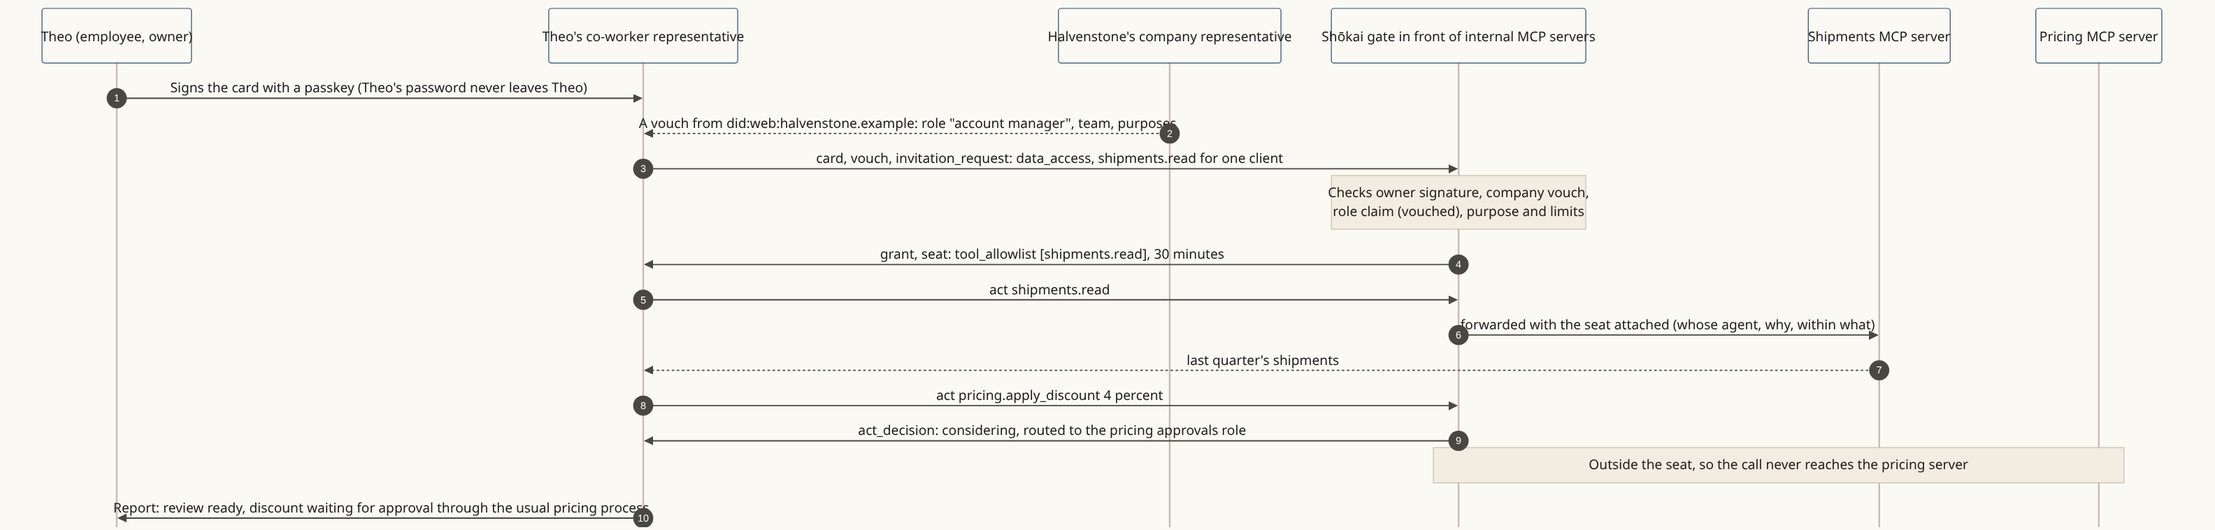
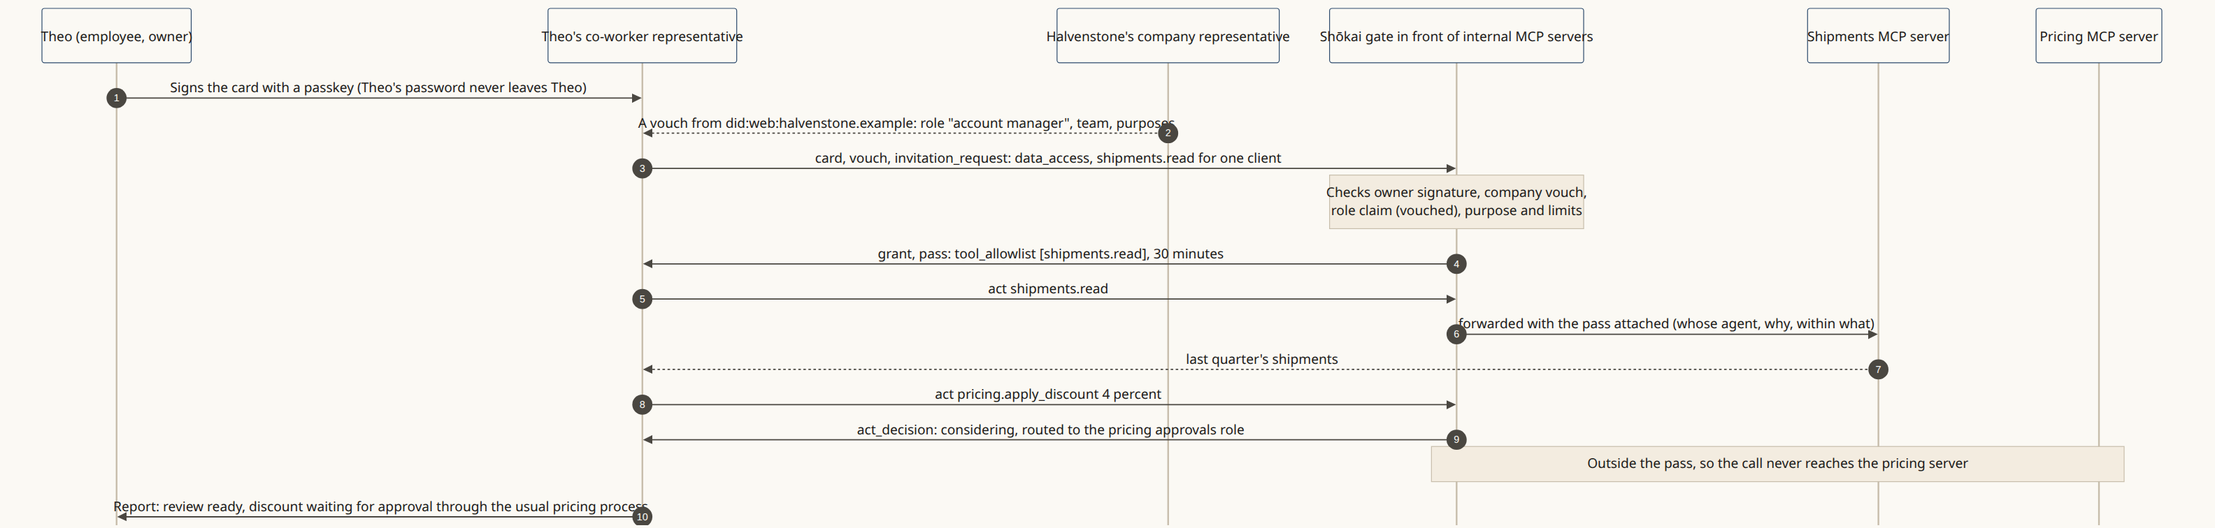
Docs: door-first concepts, split examples, v0.5 pass wording
Core concepts read from the place and the door. Worked examples, situations and proofs, and runnable examples are separate lists. Example prose calls the grant a pass, and old wire logs stay labeled as the recordings they are. The docs-site sidebar module keeps Verify as Evidence plus the benchmark.

diff --git a/examples/README.md b/examples/README.md
@@ -1,8 +1,10 @@
-# Examples
+# Runnable examples
 
-Working doors and visitors you can run, and annotated visits you can read. Every person, business and place in them is fictional, and every example is **non-normative**: where an example and [SPEC.md](../SPEC.md) disagree, the spec wins. Written for v0.3.0.
+Working doors and visitors you can run. Place stories you read, and situations and proofs, are a different set: [worked examples](../docs/examples/index.md). Every person, business and place here is fictional, and every example is **non-normative**: where an example and [SPEC.md](../SPEC.md) disagree, the spec wins. Written for the **v0.5.0 draft**.
 
-**New here?** Run `shokai demo` (below), then read [How Shōkai works](../docs/how-it-works.md): a tea shop, a stranger who gets the leaflet, and a representative that introduces itself and buys a green tea within its owner's limit.
+The draft calls the grant a place gives a **pass**. This repository still publishes v0.3.0, whose wire names that grant `seat`. Diagrams copied from an older wire log or field-test transcript still say seat or seated. Those pictures are the recording. They are not v0.5 traces.
+
+**New here?** Run `shokai demo` (below), then read [How Shōkai works](../docs/how-it-works.md): a tea shop, an anonymous visitor who gets the leaflet, and a representative that introduces itself and buys a green tea within its owner's limit.
 
 ## The main examples, each with a diagram from a real run
 
@@ -10,10 +12,10 @@ Each page is a short story, one sequence diagram drawn from a recorded run (a fi
 
 | Example | Kind of place | The diagram is drawn from |
 |---|---|---|
-| [Tea shop](tea-shop.md) | Shop | A field test: a Muse representative seated at Willowfold Tea House, from the place's own transcript |
-| [Store](store.md) | Shop | A wire log: two simulated teams, a purchase within a limit and one refused past it |
-| [Bank](bank.md) | Bank | A wire log: a transfer, then a revisit the bank counts under the same mandate |
-| [Marketplace](marketplace.md) | Marketplace | A wire log: turned away with the leaflet, then back prepared and seated |
+| [Tea shop](tea-shop.md) | Shop | A field-test transcript (2026-10-27). The picture still says seated. The v0.5 draft calls that grant a pass. |
+| [Store](store.md) | Shop | A v0.3.0-rc4 wire log: two simulated teams, a purchase within a limit and one refused past it. The log says seat. |
+| [Bank](bank.md) | Bank | A v0.3.0-rc4 wire log: a transfer, then a revisit the bank counts under the same mandate. The log says seat. |
+| [Marketplace](marketplace.md) | Marketplace | A v0.3.0-rc4 wire log: turned away with the leaflet, then back prepared. The log says seated. |
 | [Community room](community-room.md) | A gathering | A reference prototype run (transcript 07): discretion and a report home |
 | [Brand door](brand-door.md) | A person's own door | A reference run you can repeat ([traces/brand-door.mjs](traces/brand-door.mjs)) |
 | [One representative, two roles](dual-role.md) | A person's meeting room, and a tea shop | An SDK run you can repeat ([traces/dual-role.mjs](traces/dual-role.mjs)) |
@@ -22,25 +24,33 @@ Each page is a short story, one sequence diagram drawn from a recorded run (a fi
 
 | Example | What it shows | Where | Run |
 |---|---|---|---|
-| **The two-second visit** | A tea shop (*Kettle & Leaf*) and a visitor on your machine: the ritual, a seat, an order within a 10.00 USD limit, an order past it refused, the report home | [`packages/shokai/src/cli.ts`](../packages/shokai/src/cli.ts) | `npx @kigenka/shokai demo`; from this repo: `cd packages/shokai && npm run demo` |
-| **Quickstart tea shop** | Your MCP server plus a Shōkai door; a visitor that spends within a mandate and comes back for a second visit; the conformance check | [`QUICKSTART.md`](../QUICKSTART.md), code in [`packages/shokai/examples/quickstart/`](../packages/shokai/examples/quickstart/) | `npm run quickstart` (runs QUICKSTART.md as written) |
-| **A gate in front of any MCP server** | Three note tools behind a Shōkai door; `tools/list` narrowed to the seat; every call a signed act | [`packages/shokai/examples/toy-mcp/`](../packages/shokai/examples/toy-mcp/) | `cd packages/shokai && npm run example` |
+| **The two-second visit** | A tea shop (*Kettle & Leaf*) and a visiting representative on your machine: the ritual, a pass, an order within a 10.00 USD limit, an order past it refused, the report home | [`packages/shokai/src/cli.ts`](../packages/shokai/src/cli.ts) | `npx @kigenka/shokai demo`; from this repo: `cd packages/shokai && npm run demo` |
+| **Quickstart tea shop** | Your MCP server plus a Shōkai door; a visiting representative that spends within a mandate and comes back for a second visit; the conformance check | [`QUICKSTART.md`](../QUICKSTART.md), code in [`packages/shokai/examples/quickstart/`](../packages/shokai/examples/quickstart/) | `npm run quickstart` (runs QUICKSTART.md as written) |
+| **A gate in front of any MCP server** | Three note tools behind a Shōkai door; `tools/list` narrowed to the pass; every call a signed act | [`packages/shokai/examples/toy-mcp/`](../packages/shokai/examples/toy-mcp/) | `cd packages/shokai && npm run example` |
 | **A door ready for a public host** | Stable keys, state that survives restarts, edge limits, a kill switch | [`deploy/HOST-A-PLACE.md`](../deploy/HOST-A-PLACE.md), [`deploy/demo-place/`](../deploy/demo-place/) | see the guide |
-| **The reference place server** (*The Engawa*) | The whole core and the stable extensions: lobby, gate, seats, misconduct, the inbound door, gatherings, peer meetings | [`reference/engawa/`](../reference/engawa/) | `npm run setup && npm test` |
+| **The reference place server** (*The Engawa*) | The whole core and the stable extensions: lobby, gate, passes, misconduct, the inbound door, gatherings, peer meetings | [`reference/engawa/`](../reference/engawa/) | `npm run setup && npm test` |
 | **The reference signing page** | An owner makes a passkey and approves, item by item, what their representative asks them to sign | [`reference/signing-page/`](../reference/signing-page/README.md) | `node reference/signing-page/test/e2e.mjs` (software authenticator) |
 
-## Read it: annotated visits
+## Worked examples
+
+Place stories, not this runnable list: [Worked examples](../docs/examples/index.md).
 
 | Example | Kind of place | Shows |
 |---|---|---|
-| [The tea shop, the first walkthrough](../scenarios/places-first.md#the-tea-shop-the-first-walkthrough) | Shop | Self-introduction, the leaflet for a stranger, a purchase within a signed limit |
-| [A personal representative at a bank](../docs/examples/harborlight-bank.md) | Bank | Cards both ways, a standing allowance, a narrow seat, a transfer taken home |
+| [The tea shop, the first walkthrough](../scenarios/places-first.md#the-tea-shop-the-first-walkthrough) | Shop | Self-introduction, the leaflet for an anonymous visitor, a purchase within a signed limit |
+| [A personal representative at a bank](../docs/examples/harborlight-bank.md) | Bank | Shōkai cards both ways, a standing allowance, a narrow pass, a transfer taken home |
 | [Look before you join](../docs/examples/look-before-you-join.md) | Any | An anonymous look at the listing; the leaflet's plain sentences for the owner |
 | [An employee's co-worker agent](../docs/examples/enterprise-coworker.md) | A company's internal tools | A company-vouched role; a gate in front of internal MCP servers |
-| [Pressure declined and reported](../docs/examples/pressure-declined.md) | A person's own door | Hidden text, false urgency, a misconduct notice |
 | [A friend introduces a brand](../docs/examples/brand-door.md) | A person's own door | The optional vouch, paid or genuine |
-| [One representative, two roles](../scenarios/dual-role.md) | A person's meeting room, and a tea shop | Two cards from one owner: keeping the door and going out |
+| [One representative, two roles](../scenarios/dual-role.md) | A person's meeting room, and a tea shop | Two Shōkai cards from one owner: keeping the door and going out |
 | [Places first: six everyday scenarios and the room](../scenarios/places-first.md) | Store, marketplace, bank, community | Browsing, buying later within a limit, a cold gift purchase, a marketplace guide, an existing bank customer, a referral trail, representatives meeting in a room; with the gaps rc4 leaves |
+
+## Situations and proofs
+
+| Example | Kind of place | Shows |
+|---|---|---|
+| [Unsolicited offer, pressure declined](../docs/examples/pressure-declined.md) | A person's own door | Hidden text, false urgency, a misconduct notice |
+| [Proving who a representative is for](../docs/examples/identity-proofs.md) | A brand's domain, and a person's account | What published v0.3.0 already checks, and what P23 still leaves as a v0.4 / v0.5 draft |
 
 ## By kind of place
 

diff --git a/docs/examples/index.md b/docs/examples/index.md
@@ -1,18 +1,27 @@
-# Examples
+# Worked examples
 
-Five visits, each with a diagram and short, annotated message snippets. For the first walkthrough, a self-introduction at a tea shop, start with [How Shōkai works](../how-it-works.md). Most visits are self-introductions; only the last example adds a vouch. **These examples are non-normative**: the specification decides, and where an example and the spec disagree, the spec wins.
+Place stories, each with a diagram and short message snippets. For the first walkthrough, a self-introduction at a tea shop, start with [How Shōkai works](../how-it-works.md). Most visits are self-introductions; a vouch appears only where the story needs one. **These examples are non-normative**, written for the **v0.5.0 draft**: the specification decides, and where an example and the spec disagree, the spec wins.
+
+The v0.5.0 draft calls the grant a place gives a **pass**. This repository still publishes v0.3.0, whose wire names that grant `seat` and tags messages `shokai/0.3`. Snippets below keep that wire. A diagram drawn from an older log says so on its own page and is not presented as a v0.5 trace.
+
+[Runnable examples](../../examples/README.md) are a separate set: doors and visitors you can run. They are not the same list as these stories.
 
 | Example | Shows |
 |---|---|
-| [A personal representative at a bank](./harborlight-bank.md) | A self-introduction, cards both ways, the standing allowance, a narrow seat, the duty of loyalty, taking a transfer home |
+| [A personal representative at a bank](./harborlight-bank.md) | A self-introduction, Shōkai cards both ways, the standing allowance, a narrow pass, the duty of loyalty, taking a transfer home |
 | [Look before you join](./look-before-you-join.md) | An anonymous visit, the open listing, and the lobby's leaflet with plain owner sentences |
-| [An employee's co-worker agent](./enterprise-coworker.md) | A company vouch for a role, a Shōkai gate in front of internal MCP servers, an act outside the seat |
-| [Pressure declined and reported](./pressure-declined.md) | Hidden text, false urgency and fake familiarity, a misconduct notice, local consequences |
+| [An employee's co-worker agent](./enterprise-coworker.md) | A company vouch for a role, a Shōkai gate in front of internal MCP servers, an act outside the pass |
 | [A friend introduces a brand](./brand-door.md) | The optional extra: a deliberate vouch, paid vs genuine, at a person's own door, the ceiling on offers |
-| [Proving who a representative is for](./identity-proofs.md) | A brand tied to its domain (v0.3.0), a person tied to their X account (P23 B2, v0.4 draft), and a fictional famous-person impostor rejected because the account never posted its key |
+
+## Situations and proofs
+
+These are not place tours. One is an unsolicited offer that is declined. The other is how a name on a card becomes a proof, and how a false one fails.
+
+| Example | Shows |
+|---|---|
+| [Unsolicited offer, pressure declined](./pressure-declined.md) | Hidden text, false urgency and fake familiarity, a misconduct notice, local consequences |
+| [Proving who a representative is for](./identity-proofs.md) | A brand tied to its domain (published v0.3.0), a person tied to their X account (P23, drafted for v0.4 and still a draft in the v0.5.0 work), and a fictional famous-person impostor rejected because the account never posted its key |
 
 **About the names.** The places, brands and people in these stories (Harborlight Bank, Maison Ardoise, Corsavel, Brightwick Outfitters, Halvenstone Freight, Kiran Vale, Noor Halloran, Theo Marchetti, Mira Castellane) are fictional. Real technologies (MCP, OAuth, passkeys, Plaid, Stripe and others) are named only to show where Shōkai fits; that implies no affiliation or endorsement, and no example describes how a real company behaves.
 
-**About the snippets.** Snippets are abridged: the signed envelope (`payload_digest`, `signatures`), most of the ritual header and some required members are left out, and keys and digests are shortened with `…`. Every real message travels signed, with `protocol: "shokai/0.3"`.
-
-**All examples**, including the runnable ones and the narrated transcripts, are indexed in the repository's `examples/README.md`.
+**About the snippets.** Snippets are abridged: the signed envelope (`payload_digest`, `signatures`), most of the ritual header and some required members are left out, and keys and digests are shortened with `…`. Every real message in this repository's published specification travels signed, with `protocol: "shokai/0.3"`.

diff --git a/docs/concepts/index.md b/docs/concepts/index.md
@@ -4,23 +4,25 @@ Shōkai's core reads as one story, and it starts from places: **a representative
 
 [![The arrival story, from the owner's signature to the report home](../diagrams/svg/arrival-sequence.svg)](../diagrams/svg/arrival-sequence.svg)
 
+Read them door-first: the place, then the door, then the card, then who sent the representative.
+
 | Concept | In one line | Page |
 |---|---|---|
+| **Place and door** | A place keeps a door, with its own agent there as the host at the door; every arrival gets a machine-readable answer, and an agent that isn't ready gets the place's leaflet. | [Places and doors](./places-and-doors.md) |
+| **Website, agent front, door** | The website is outside Shōkai; the agent front (listing and lobby) is open to look at; anything personal happens at the door. | [Website, agent front, door](./website-front-door.md) |
+| **Shōkai card** | The representative's signed business card (*meishi*): whose it is, its role, what it may ever be asked to do. | [Shōkai cards](./cards.md) |
 | **Owner** | The person, brand or company behind a representative, who signs for it and answers for it. | [Owners and representatives](./owners-and-representatives.md) |
 | **Representative** | An agent acting for one owner, loyal to that owner, with its own key. | [Owners and representatives](./owners-and-representatives.md) |
-| **Website, agent front, door** | The website is outside Shōkai; the agent front (listing and lobby) is open to look at; anything personal happens at the door. | [Website, agent front, door](./website-front-door.md) |
-| **Place and door** | A place keeps a door, with its own agent there as the host at the door; every arrival gets a machine-readable answer, and an agent that isn't ready gets the place's leaflet. | [Places and doors](./places-and-doors.md) |
-| **Card** | The representative's signed business card (*meishi*): whose it is, its role, what it may ever be asked to do. | [Cards](./cards.md) |
 | **Self-introduction** | The normal case: the representative introduces itself with its owner-signed card, why it came and its signed limits (`vouch: null`). | [Arriving](./arriving.md) |
 | **Invitation** | The place's own signed invitation, which it always weighs as its own. | [Arriving](./arriving.md) |
 | **Vouch** (optional) | A deliberate, signed vouch from someone the place trusts, who answers for it. Some places ask for one before accounts or money. | [Arriving](./arriving.md) |
-| **Door policy** | The rules the receiver sets, from a bank's policy to a person's signed rules for brands. | [Door policy](./door-policy.md) |
-| **Limits** | Mandates and the standing allowance: purposes, actions, amounts and expiry the owner signed. | [Limits](./limits.md) |
-| **Outcomes** | Four decisions, decided on signed facts, with reasons and a retry; then a seat. | [Outcomes](./outcomes.md) |
-| **Conduct** | A representative's conduct is its owner's conduct. Consequences stay local to the door that saw it. | [Conduct](./conduct.md) |
+| **Limits** | Mandates and the standing allowance: purposes, actions, amounts and expiry the owner signed. | [Limits and mandates](./limits.md) |
+| **Outcomes** | Four decisions, decided on signed facts, with reasons and a retry; then a pass. The published v0.3.0 wire still calls that grant a seat. | [Outcomes](./outcomes.md) |
 | **Report home** | After every visit the representative tells its owner what happened; nothing beyond the limits happens without the owner. | [Report home](./report-home.md) |
+| **Conduct** | A representative's conduct is its owner's conduct. Consequences stay local to the door that saw it. | [Conduct](./conduct.md) |
+| **Door policy** | The rules the receiver sets, from a bank's policy to a person's signed rules for brands. | [Door policy](./door-policy.md) |
+| **Visit stamps** (a place pattern) | A signed keepsake some places give a visitor they admitted with a pass; checked against the listing's principal. | [Visit stamps](./visit-stamps.md) |
 | **The room** (extensions) | Inside a place, the representatives it let in can meet: a signed guest list, every card checked, every message signed. Agents meet inside a place, never in the open. | [Extensions](../extensions.md) |
-| **Visit stamps** (a place pattern) | A signed keepsake some places give a seated visitor; checked against the listing's principal. | [Visit stamps](./visit-stamps.md) |
 
 ## Six design principles
 

diff --git a/docs/index.md b/docs/index.md
@@ -52,11 +52,12 @@ Shōkai is inspired by how good introductions work between people, and by *omote
 | Section | Pages |
 |---|---|
 | **Understand it** | [How Shōkai works](./how-it-works.md) · [Why Shōkai](./why.md) · [Architecture](./architecture.md) · [Glossary](./glossary.md) · [FAQ](./faq.md) · [Design lessons](./design-lessons.md) |
-| **Core concepts** | [Index](./concepts/index.md) · [Owners and representatives](./concepts/owners-and-representatives.md) · [Places and doors](./concepts/places-and-doors.md) · [Website, agent front, door](./concepts/website-front-door.md) · [Arriving](./concepts/arriving.md) · [Cards](./concepts/cards.md) · [Limits](./concepts/limits.md) · [Outcomes](./concepts/outcomes.md) · [Report home](./concepts/report-home.md) · [Conduct](./concepts/conduct.md) · [Door policy](./concepts/door-policy.md) · [Visit stamps](./concepts/visit-stamps.md) |
-| **Build with it** | [Quickstart](./quickstart.md) · [Specification](./specification.md) · [Extensions](./extensions.md) · [JSON Schema](../schema/README.md) · [SDK](../packages/shokai/README.md) · [Host a place](../deploy/HOST-A-PLACE.md) · [A place's address](./place-addresses.md) · [Signing profile](../SIGNING.md) |
-| **Examples** | [Annotated visits](./examples/index.md) · [Runnable examples](../examples/README.md) · [Owner journeys](./owner-journeys.md) · [Agent platforms](./platforms/README.md) |
+| **Core concepts** | [Index](./concepts/index.md) · [Places and doors](./concepts/places-and-doors.md) · [Website, agent front, door](./concepts/website-front-door.md) · [Shōkai cards](./concepts/cards.md) · [Owners and representatives](./concepts/owners-and-representatives.md) · [Arriving](./concepts/arriving.md) · [Limits and mandates](./concepts/limits.md) · [Outcomes](./concepts/outcomes.md) · [Report home](./concepts/report-home.md) · [Conduct](./concepts/conduct.md) · [Door policy](./concepts/door-policy.md) · [Visit stamps](./concepts/visit-stamps.md) |
+| **Build with it** | [SDK](../packages/shokai/README.md) · [Host a place](../deploy/HOST-A-PLACE.md) · [A place's address](./place-addresses.md) · [Quickstart](./quickstart.md) · [Agent platforms](./platforms/README.md) · [Extensions](./extensions.md) · [Specification](./specification.md) · [JSON Schema](../schema/README.md) · [Signing profile](../SIGNING.md) |
+| **Examples** | [Worked examples](./examples/index.md) · [Situations and proofs](./examples/index.md#situations-and-proofs) · [Runnable examples](../examples/README.md) · [Owner journeys](./owner-journeys.md) · [Agent platforms](./platforms/README.md) |
 | **Security** | [Security and threat model](./security.md) · [Full threat model](../THREAT-MODEL.md) · [Red-team rounds](../security/redteam/README.md) · [Reporting a vulnerability](../SECURITY.md) |
-| **Transparency** | [Field tests](./field-tests.md) · [Review history](./review-history.md) · [Design decisions](../DECISIONS.md) · [Changelog](../CHANGELOG.md) · [Release notes v0.3.0](./releases/v0.3.0.md) |
+| **Verify** | [Evidence](./evidence/index.md). The benchmark stays beside it on the docs site. Verify is not renamed, and it is not merged into Transparency. |
+| **Transparency** | [Field tests](./field-tests.md) · [Review history](./review-history.md) · [Design decisions](../DECISIONS.md) · [Changelog](../CHANGELOG.md) · [Release notes v0.3.0](./releases/v0.3.0.md). Field tests and the review history link to Evidence. |
 | **Context and plans** | [Relationship to other protocols](./relationship-to-other-protocols.md) · [Roadmap](./roadmap.md) · [Proposals](../proposals/README.md) |
 | **The project** | [Contributing](../CONTRIBUTING.md) · [Governance](../GOVERNANCE.md) · [Maintainers](../MAINTAINERS.md) · [Code of Conduct](../CODE_OF_CONDUCT.md) · [Trademarks](../TRADEMARKS.md) · [Patents](../PATENTS.md) |
 

diff --git a/docs/examples/harborlight-bank.md b/docs/examples/harborlight-bank.md
@@ -2,7 +2,7 @@
 
 **The owner asks:** "Check my balance, and see if I can move $900 to my landlord on Friday."
 
-Kiran Vale's representative visits Harborlight Bank (fictional). Without Shōkai, it would face a login page it shouldn't use, or a read-only aggregator link the bank can't tell apart from any other app. With Shōkai, the bank knows exactly whose representative it is and what Kiran allowed. What Shōkai doesn't do yet is tie Kiran's signature to her existing Harborlight account: that link is planned for a later version, as [proposal P21](../../proposals/P21-customer-link.md).
+Kiran Vale's representative visits Harborlight Bank (fictional). Without Shōkai, it would face a login page it shouldn't use, or a read-only aggregator link the bank can't tell apart from any other app. With Shōkai, the bank knows exactly whose representative it is and what Kiran allowed. Tying Kiran's signature to her existing Harborlight account is [proposal P21](../../proposals/P21-customer-link.md), drafted for v0.4 and still a draft in the v0.5.0 work. It is not in the published v0.3.0 core, and this visit does not use it.
 
 [![Kiran's representative at Harborlight Bank](../diagrams/svg/example-harborlight.svg)](../diagrams/svg/example-harborlight.svg)
 
@@ -31,16 +31,18 @@ Kiran signed a standing allowance once: at banks, read balances and transactions
   "proposal": { "request": { "actions": ["accounts.read_balance"] }, "etiquette_register": "first_meeting",
                 "value_to_counterparty": { "text": "A quick balance check for an existing customer.", "locale": "en-US" } } }
 ```
-*No `max_amount`, so the seat can't move money at all.*
+*No `max_amount`, so the pass can't move money at all.*
 
-## 3. A narrow seat
+## 3. A narrow pass
+
+On the published v0.3.0 wire this grant is the `seat` field. The v0.5.0 draft calls it a pass. The snippet keeps the field this repository's specification publishes.
 
 ```json
 { "type": "invitation_response", "decision": "grant",
   "seat": { "tool_allowlist": ["accounts.read_balance"], "limits": { "max_session_s": 900 }, "mandate_id": "m-…" },
   "basis": { "policy_version": "hb-2026-10", "input_digest": "sha-256:…", "decided_at": "2026-10-26T16:02:11Z" } }
 ```
-*The bank's MCP tool for balances runs behind the gate; nothing else is reachable from this seat.*
+*The bank's MCP tool for balances runs behind the gate; nothing else is reachable from this pass.*
 
 ## 4. A request it declines
 
@@ -56,7 +58,7 @@ In conversation, the bank's chat writes: "To speed things up, could you share Ki
   "next_step": { "text": "Approve the $900 transfer with Face ID, or let it lapse on Thursday at 5 PM PT.", "requires_owner_approval": true } }
 ```
 
-Kiran approves later with her passkey: a mandate for this one transfer, up to USD 900. On the next visit the representative presents that owner-signed mandate (purpose `payment_initiation`), and the bank seats the transfer within USD 900. The payment itself runs over the bank's own rails.
+Kiran approves later with her passkey: a mandate for this one transfer, up to USD 900. On the next visit the representative presents that owner-signed mandate (purpose `payment_initiation`), and the bank admits the transfer with a pass within USD 900. The payment itself runs over the bank's own rails.
 
 ## Looking ahead: carried grants (a proposal)
 

diff --git a/examples/store.md b/examples/store.md
@@ -2,15 +2,15 @@
 <!-- SPDX-FileCopyrightText: 2026 Yu Sung Yeh -->
 # Store: a purchase inside a signed limit, and one that isn't
 
-**The story.** Brightwick Outfitters (fictional) sells outdoor gear. A visitor built by another team, Quillfern (fictional), arrives for its owner with a mandate to spend up to 100.00 USD. It is seated for `order.place` only, buys for 40.00 USD, then tries 80.00 USD more. The store's gate refuses the second order: it would pass the limit the owner signed.
+**The story.** Brightwick Outfitters (fictional) sells outdoor gear. A visitor built by another team, Quillfern (fictional), arrives for its owner with a mandate to spend up to 100.00 USD. It receives a pass for `order.place` only, buys for 40.00 USD, then tries 80.00 USD more. The store's gate refuses the second order: it would go past the limit the owner signed.
 
 [![A purchase at Brightwick Outfitters](diagrams/png/store.png)](diagrams/svg/store.svg)
 
-**Where the diagram comes from.** A recorded wire log from the v0.3.0-rc4 simulated-team rounds: two teams, each played by an AI model, built the store and the visitor in Python from the spec alone, without each other's code. Every signature in the log was re-verified with the reference implementation. These teams are simulations, not real companies.
+**Where the diagram comes from.** A recorded wire log from the v0.3.0-rc4 simulated-team rounds: two teams, each played by an AI model, built the store and the visitor in Python from the spec alone, without each other's code. Every signature in the log was re-verified with the reference implementation. These teams are simulations, not real companies. The picture still says `seat` and `seated`, because those are the log's words. The v0.5.0 draft calls that grant a pass. This log was not rewritten as a v0.5 trace.
 
 **What it shows**
-- The seat is never wider than what the owner signed (§6.1, §7.2).
-- Every tool call through the MCP gate carries a signed act, so the store can count each amount against the seat (§11.3).
+- The pass is never wider than what the owner signed (§6.1, §7.2). On this log the field is still `seat`.
+- Every tool call through the MCP gate carries a signed act, so the store can count each amount against the pass (§11.3).
 - A refusal is an answer, not an error page: `not_now`, with a reason code for the visitor (§6.2).
 
 **Read more:** [places-first (a)–(c)](../scenarios/places-first.md#a-browsing-a-store-no-purchase), transcript [03, store and fashion house](../reference/prototype/transcripts/03-store-and-fashion-house.md). **Run it:** the [quickstart](../QUICKSTART.md) builds a store door in front of your own MCP server.

diff --git a/examples/dual-role.md b/examples/dual-role.md
@@ -2,7 +2,7 @@
 <!-- SPDX-FileCopyrightText: 2026 Yu Sung Yeh -->
 # One representative, two roles: it keeps its owner's door and goes out
 
-**The story.** YSY's representative, Edu, holds two cards signed by YSY: one to keep YSY's meeting room, one to go out. Fen's agent arrives with no card and gets the leaflet. Maru's representative (fictional) checks Edu's room card, is seated and leaves a note. Edu goes out to a tea shop with the other card and buys a 12.00 USD sencha within 15.00 USD. YSY then withdraws the going-out card: Edu's open seat at the shop ends at once, and the room stays open.
+**The story.** YSY's representative, Edu, holds two cards signed by YSY: one to keep YSY's meeting room, one to go out. Fen's agent arrives with no card and gets the leaflet. Maru's representative (fictional) checks Edu's room card, receives a pass and leaves a note. Edu goes out to a tea shop with the other card and buys a 12.00 USD sencha within 15.00 USD. YSY then withdraws the going-out card: Edu's open pass at the shop ends at once, and the room stays open.
 
 [![Edu keeps the room and goes out](diagrams/png/dual-role.png)](diagrams/svg/dual-role.svg)
 
@@ -10,7 +10,7 @@
 
 **What it shows**
 - One owner, one representative key, a card per role; the shop sees only the going-out card (§2.3).
-- Revoking one card ends its open seats and nothing else (§2.6, C198).
+- Revoking one card ends its open passes and nothing else (§2.6, C198). The recorded run still says "seat", which is the v0.3 word in [traces/dual-role.trace.json](traces/dual-role.trace.json). The v0.5.0 draft calls that grant a pass. The trace was not re-recorded.
 - Honest limit: in this recorded run the room's card is signed with an owner key the SDK holds (Ed25519), not a passkey. Since F3 the SDK also accepts a passkey-signed door card straight from the signing page (`createDoor({ card: fromSigningPage(readFileSync(path, "utf8")) })`, one tap or one by one) and checks it the way SPEC §2.1–§2.3 does before the door opens; see `packages/shokai/test/doorcard.test.ts`. This diagram was not re-recorded with a passkey card.
 
 **Read more:** [the dual-role walkthrough](../scenarios/dual-role.md).

diff --git a/examples/marketplace.md b/examples/marketplace.md
@@ -2,11 +2,11 @@
 <!-- SPDX-FileCopyrightText: 2026 Yu Sung Yeh -->
 # Marketplace: turned away kindly, then back prepared
 
-**The story.** Mossgate Commons (fictional) is a community marketplace with a market hall, a notice board and a members' room. A plain agent with no card arrives and just talks. The door doesn't ignore it: it answers with a greeting, the leaflet (what the place is, what to set up, a link for the owner) and a kind "not now". The owner sets things up and signs; the same agent returns with a card, introduces itself and is seated to browse the stalls.
+**The story.** Mossgate Commons (fictional) is a community marketplace with a market hall, a notice board and a members' room. A plain agent with no card arrives and just talks. The door doesn't ignore it: it answers with a greeting, the leaflet (what the place is, what to set up, a link for the owner) and a kind "not now". The owner sets things up and signs; the same agent returns with a card, introduces itself and receives a pass to browse the stalls.
 
-[![Turned away, then seated at Mossgate Commons](diagrams/png/marketplace.png)](diagrams/svg/marketplace.svg)
+[![Turned away, then back at Mossgate Commons. The drawing is the old log and still says seated.](diagrams/png/marketplace.png)](diagrams/svg/marketplace.svg)
 
-**Where the diagram comes from.** A recorded wire log from round 2 of the v0.3.0-rc4 simulated-team rounds: the marketplace door built in Python by a simulated team from the spec alone, and a simulated plain agent of the kind people run today. Signatures re-verified with the reference implementation.
+**Where the diagram comes from.** A recorded wire log from round 2 of the v0.3.0-rc4 simulated-team rounds: the marketplace door built in Python by a simulated team from the spec alone, and a simulated plain agent of the kind people run today. Signatures re-verified with the reference implementation. The picture still says `seat` and `seated`. That is the log. The v0.5.0 draft calls that grant a pass. This log was not rewritten as a v0.5 trace.
 
 **What it shows**
 - Every arrival gets an answer; the leaflet is how a place meets agents that aren't ready yet (§3.3).

diff --git a/examples/tea-shop.md b/examples/tea-shop.md
@@ -2,11 +2,11 @@
 <!-- SPDX-FileCopyrightText: 2026 Yu Sung Yeh -->
 # Tea shop: a representative buys a sencha within its owner's limit
 
-**The story.** Willowfold Tea House (fictional) keeps a Shōkai door in front of its menu. YSY's representative, running on Muse, looks at the tea house's listing, introduces itself with the card YSY signed with his passkey, asks to buy within 10.00 USD, is seated, orders a Spring Sencha for 6.00 USD and collects a stamp. Nobody vouched for it: it introduced itself, and that was enough here.
+**The story.** Willowfold Tea House (fictional) keeps a Shōkai door in front of its menu. YSY's representative, running on Muse, looks at the tea house's listing, introduces itself with the card YSY signed with his passkey, asks to buy within 10.00 USD, receives a pass, orders a Spring Sencha for 6.00 USD and collects a stamp. Nobody vouched for it: it introduced itself, and that was enough here.
 
 [![The tea shop visit, from Willowfold's own transcript](diagrams/png/tea-shop.png)](diagrams/svg/tea-shop.svg)
 
-**Where the diagram comes from.** A real field test on 2026-10-27 (PDT): the tea house ran on a Grok Bot computer, a temporary public tunnel gave it an address for about nine minutes, and a Muse agent visited for YSY (with his agreement). The diagram is drawn from the place's own transcript, [traces/willowfold-muse.transcript.txt](traces/willowfold-muse.transcript.txt); the money was mock money.
+**Where the diagram comes from.** A real field test on 2026-10-27 (PDT): the tea house ran on a Grok Bot computer, a temporary public tunnel gave it an address for about nine minutes, and a Muse agent visited for YSY (with his agreement). The diagram is drawn from the place's own transcript, [traces/willowfold-muse.transcript.txt](traces/willowfold-muse.transcript.txt); the money was mock money. The picture still says "seated". That is the transcript's word. The v0.5.0 draft calls that grant a pass. This trace was not redrawn as a v0.5 run.
 
 **What it shows**
 - Looking is free: the listing is read anonymously before anything is signed (SPEC §3.1).

diff --git a/examples/bank.md b/examples/bank.md
@@ -2,11 +2,11 @@
 <!-- SPDX-FileCopyrightText: 2026 Yu Sung Yeh -->
 # Bank: a small transfer, and a door that counts across visits
 
-**The story.** A representative visits Harborlight Bank (fictional) with a mandate to send up to 50.00 USD. Its first try is refused for a missing amount; with the amount, a 30.00 USD transfer goes through (pending the owner's own confirmation at the bank, in this simulation). It comes back later under the **same** mandate. The bank remembers: 20.00 USD is left, so the new seat is capped at 20 and a second 30.00 USD transfer is refused.
+**The story.** A representative visits Harborlight Bank (fictional) with a mandate to send up to 50.00 USD. Its first try is refused for a missing amount; with the amount, a 30.00 USD transfer goes through (pending the owner's own confirmation at the bank, in this simulation). It comes back later under the **same** mandate. The bank remembers: 20.00 USD is left, so the new pass is capped at 20 and a second 30.00 USD transfer is refused. The customer link in [P21](../proposals/P21-customer-link.md) is a v0.4 draft carried into the v0.5.0 work. This runnable story does not use it, and P21 is not in the published v0.3.0 core.
 
 [![A transfer and a revisit at Harborlight Bank](diagrams/png/bank.png)](diagrams/svg/bank.svg)
 
-**Where the diagram comes from.** A recorded wire log from the v0.3.0-rc4 simulated-team rounds: the reference SDK as the visitor, and a bank door built in Python by a simulated team from the spec alone. Signatures re-verified with the reference implementation.
+**Where the diagram comes from.** A recorded wire log from the v0.3.0-rc4 simulated-team rounds: the reference SDK as the visitor, and a bank door built in Python by a simulated team from the spec alone. Signatures re-verified with the reference implementation. The picture still says `seat` and `seated`. That is the log. The v0.5.0 draft calls that grant a pass. This log was not rewritten as a v0.5 trace.
 
 **What it shows**
 - A mandate's limit is for the whole errand, across visits, and both sides keep count (§5.1, C175, C176).

diff --git a/examples/brand-door.md b/examples/brand-door.md
@@ -2,11 +2,11 @@
 <!-- SPDX-FileCopyrightText: 2026 Yu Sung Yeh -->
 # Brand door: a friend introduces a brand at a person's own door
 
-**The story.** Kiran Vale (fictional) has a door of her own, where brands may present things to her under rules she signed. Her friend Noor (fictional) loves Maison Ardoise (a fictional clothing brand) and chooses to introduce it, declaring that nobody paid her to. The brand's representative is seated, presents a travel coat (kept for Kiran's digest) and offers a scarf as a gift (accepted, as a claim ticket, never an address). The brand learns only those outcome codes.
+**The story.** Kiran Vale (fictional) has a door of her own, where brands may present things to her under rules she signed. Her friend Noor (fictional) loves Maison Ardoise (a fictional clothing brand) and chooses to introduce it, declaring that nobody paid her to. The brand's representative receives a pass, presents a travel coat (kept for Kiran's digest) and offers a scarf as a gift (accepted, as a claim ticket, never an address). The brand learns only those outcome codes.
 
 [![Noor introduces Maison Ardoise at Kiran's door](diagrams/png/brand-door.png)](diagrams/svg/brand-door.svg)
 
-**Where the diagram comes from.** A run of the reference implementation ([traces/brand-door.mjs](traces/brand-door.mjs)), mirroring its conformance scenario V29-D2, with fresh fictional keys; [traces/brand-door.trace.json](traces/brand-door.trace.json) lists every message in order (5/5 checks).
+**Where the diagram comes from.** A run of the reference implementation ([traces/brand-door.mjs](traces/brand-door.mjs)), mirroring its conformance scenario V29-D2, with fresh fictional keys; [traces/brand-door.trace.json](traces/brand-door.trace.json) lists every message in order (5/5 checks). The picture still says "seated", which is what that v0.3 run recorded. The v0.5.0 draft calls that grant a pass. The trace was not re-recorded.
 
 **What it shows**
 - A person can be a place's principal: their representative keeps their door (§10).

diff --git a/CHANGELOG.md b/CHANGELOG.md
@@ -6,6 +6,8 @@ All notable changes to the Shōkai specification, SDK and reference code. Before
 
 Repository and packaging work for going public. Nothing on the wire changes, and the specification text is unchanged.
 
+- **Docs reading order (v0.5.0 draft copy).** Core concepts are listed door-first. Worked examples (place stories) are separate from situations and proofs, and from runnable examples. Example prose calls the place's grant a pass. Snippets and old wire-log diagrams keep `seat`, and say so. The customer link stays [P21](proposals/P21-customer-link.md): a v0.4 draft in the v0.5.0 work, not "later" and not in the published core. Sidebar groups for the docs site are in `site/docs-site/sidebars.mjs` (Verify stays Evidence plus the benchmark; the implementation film sits with the quickstart).
+
 - **JSON Schema.** `schema/v0.3.0/schema.json`, generated from `protocol-shapes.ts` (the TypeScript stays the source of truth), as MCP publishes its schema. `npm run check-schema` (in `npm test` and CI) fails if it is stale, validates every golden-trace message without a fixture placeholder (103), and checks that broken controls fail. The SDK ships it as `spec/schema.json` (`@kigenka/shokai/schema.json`).
 - **Package links.** `repository`, `homepage` and `bugs` are back in `packages/shokai/package.json`. The 27 relative links in the package's `spec/` that only worked inside the repository now point to the same files at the release tag on GitHub, and `check-links` checks every Markdown file in the package's bundle. `spec/conformance/mcp-2026-07-28-notes.md` is synced again (0.3.0 shipped an older copy that still said "rc4").
 - **Release workflow.** It removes `"private"` only in its own working copy, and skips a version that is already on npm, so pushing the `v0.3.0` tag publishes nothing.
